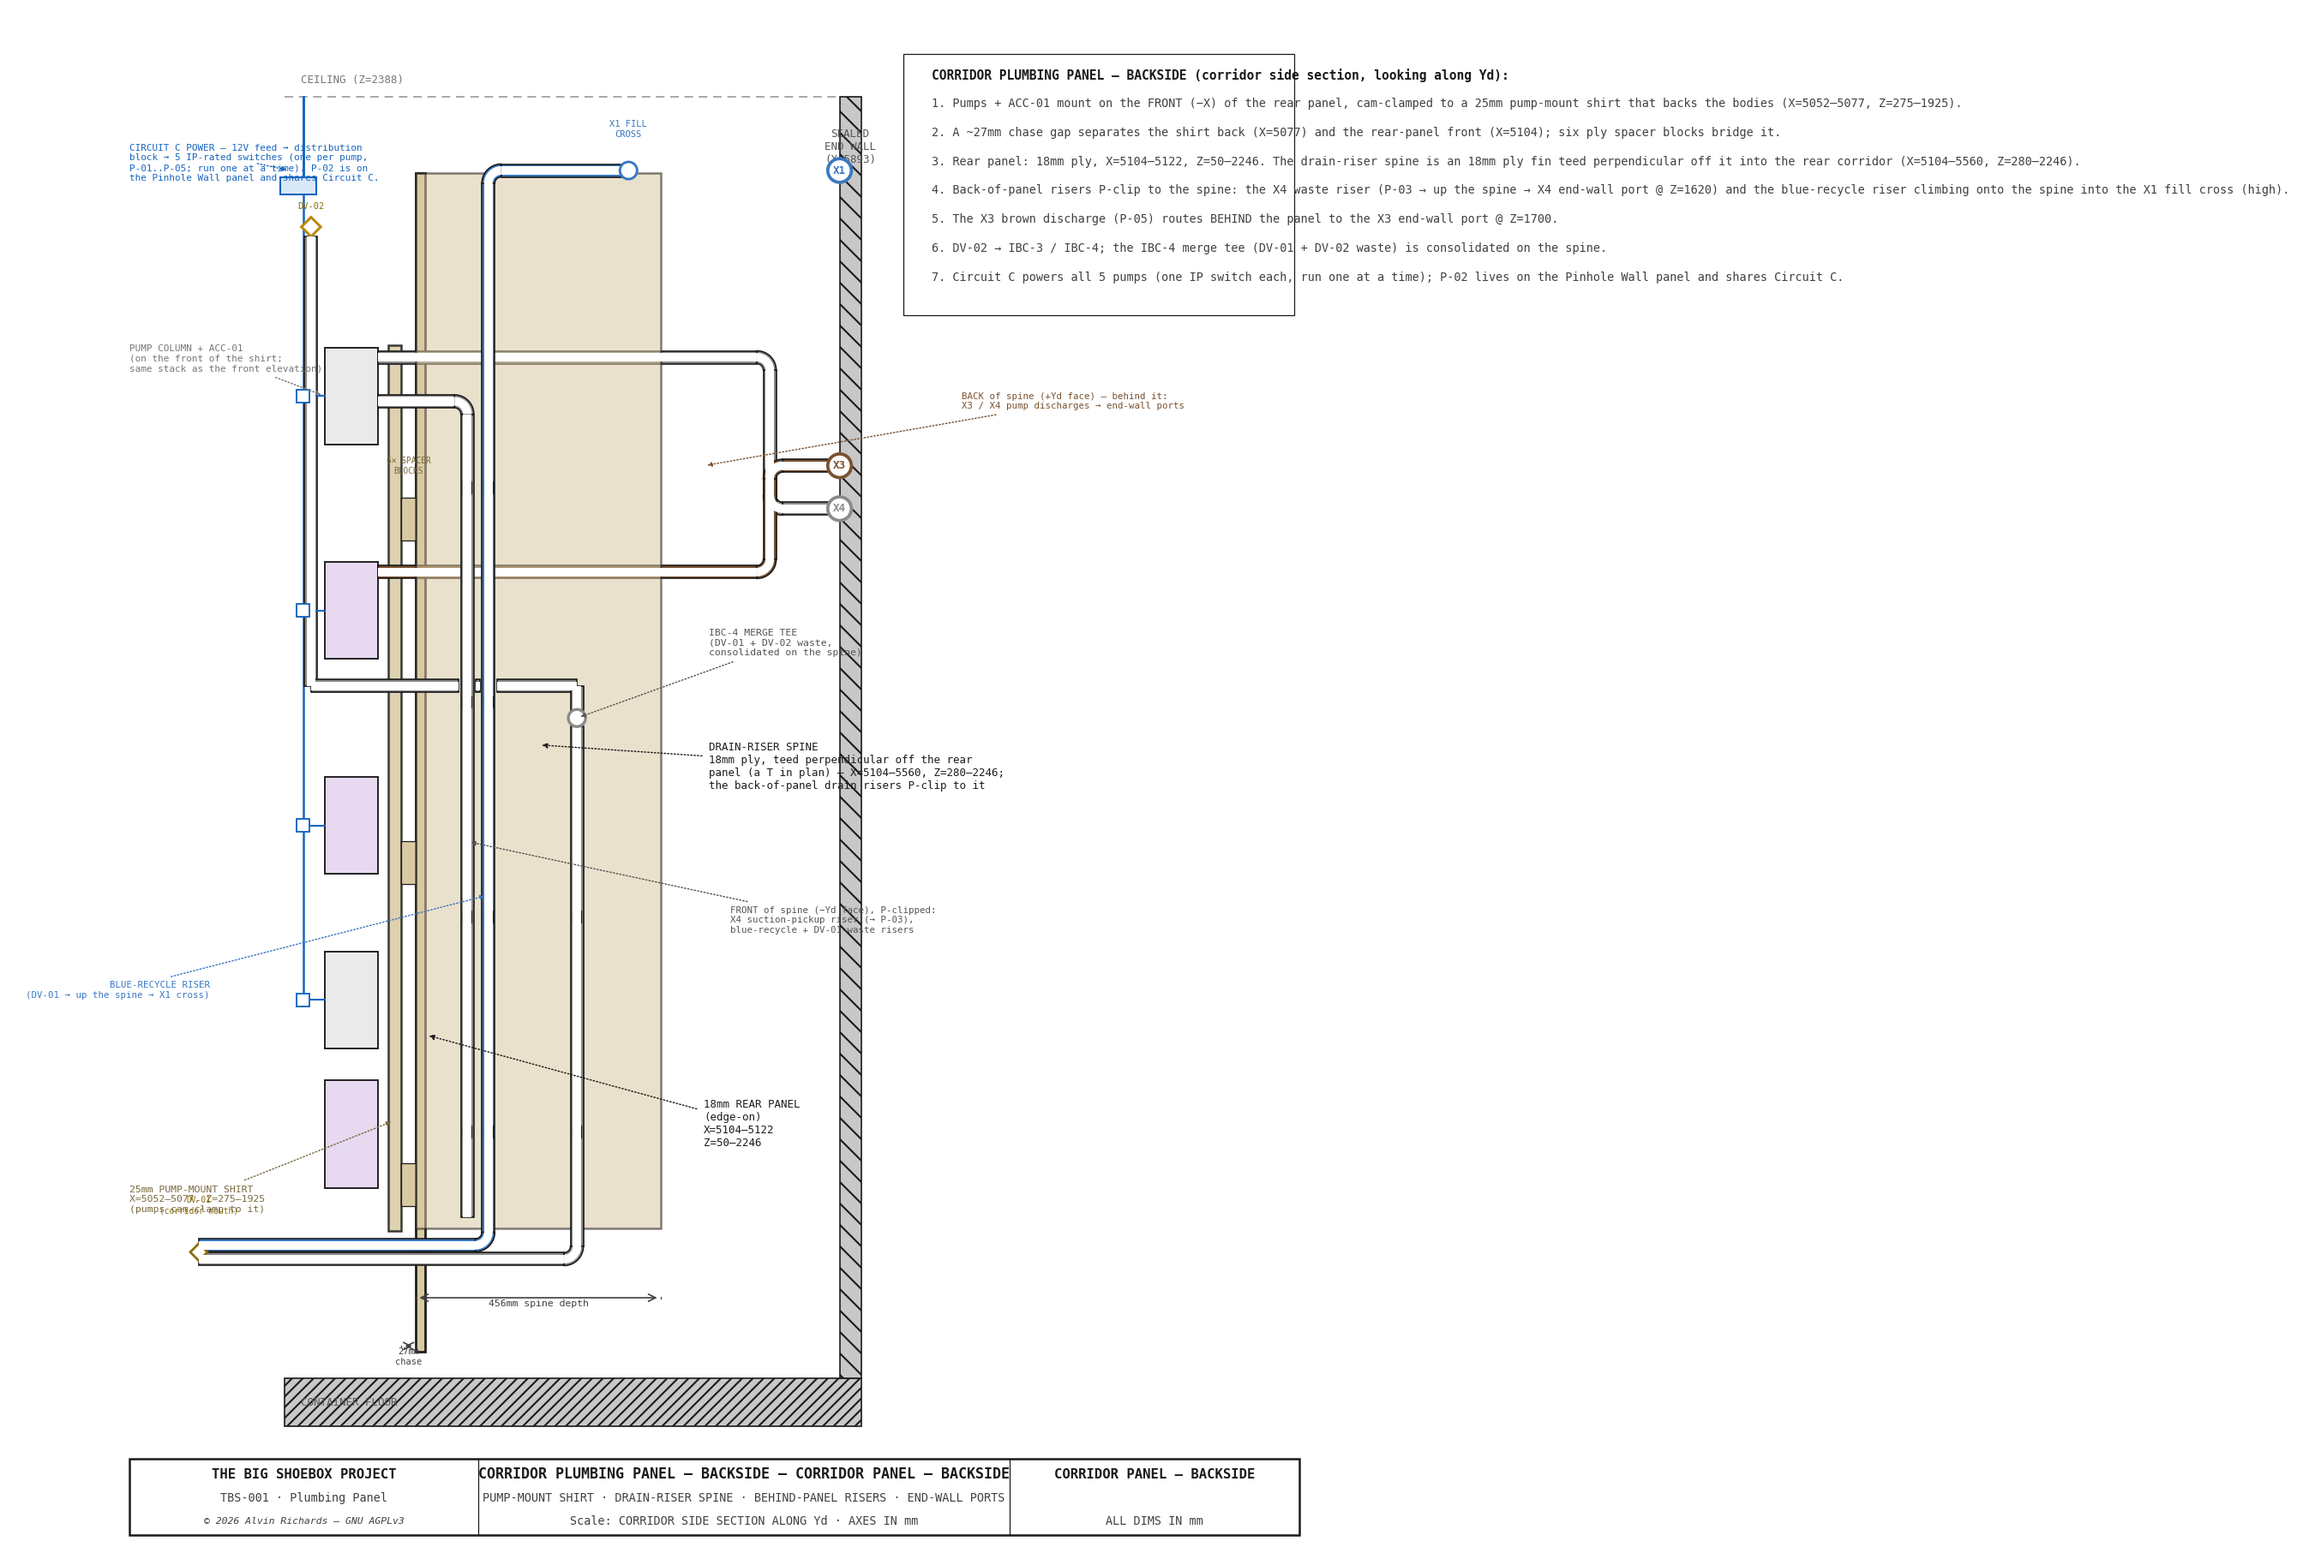
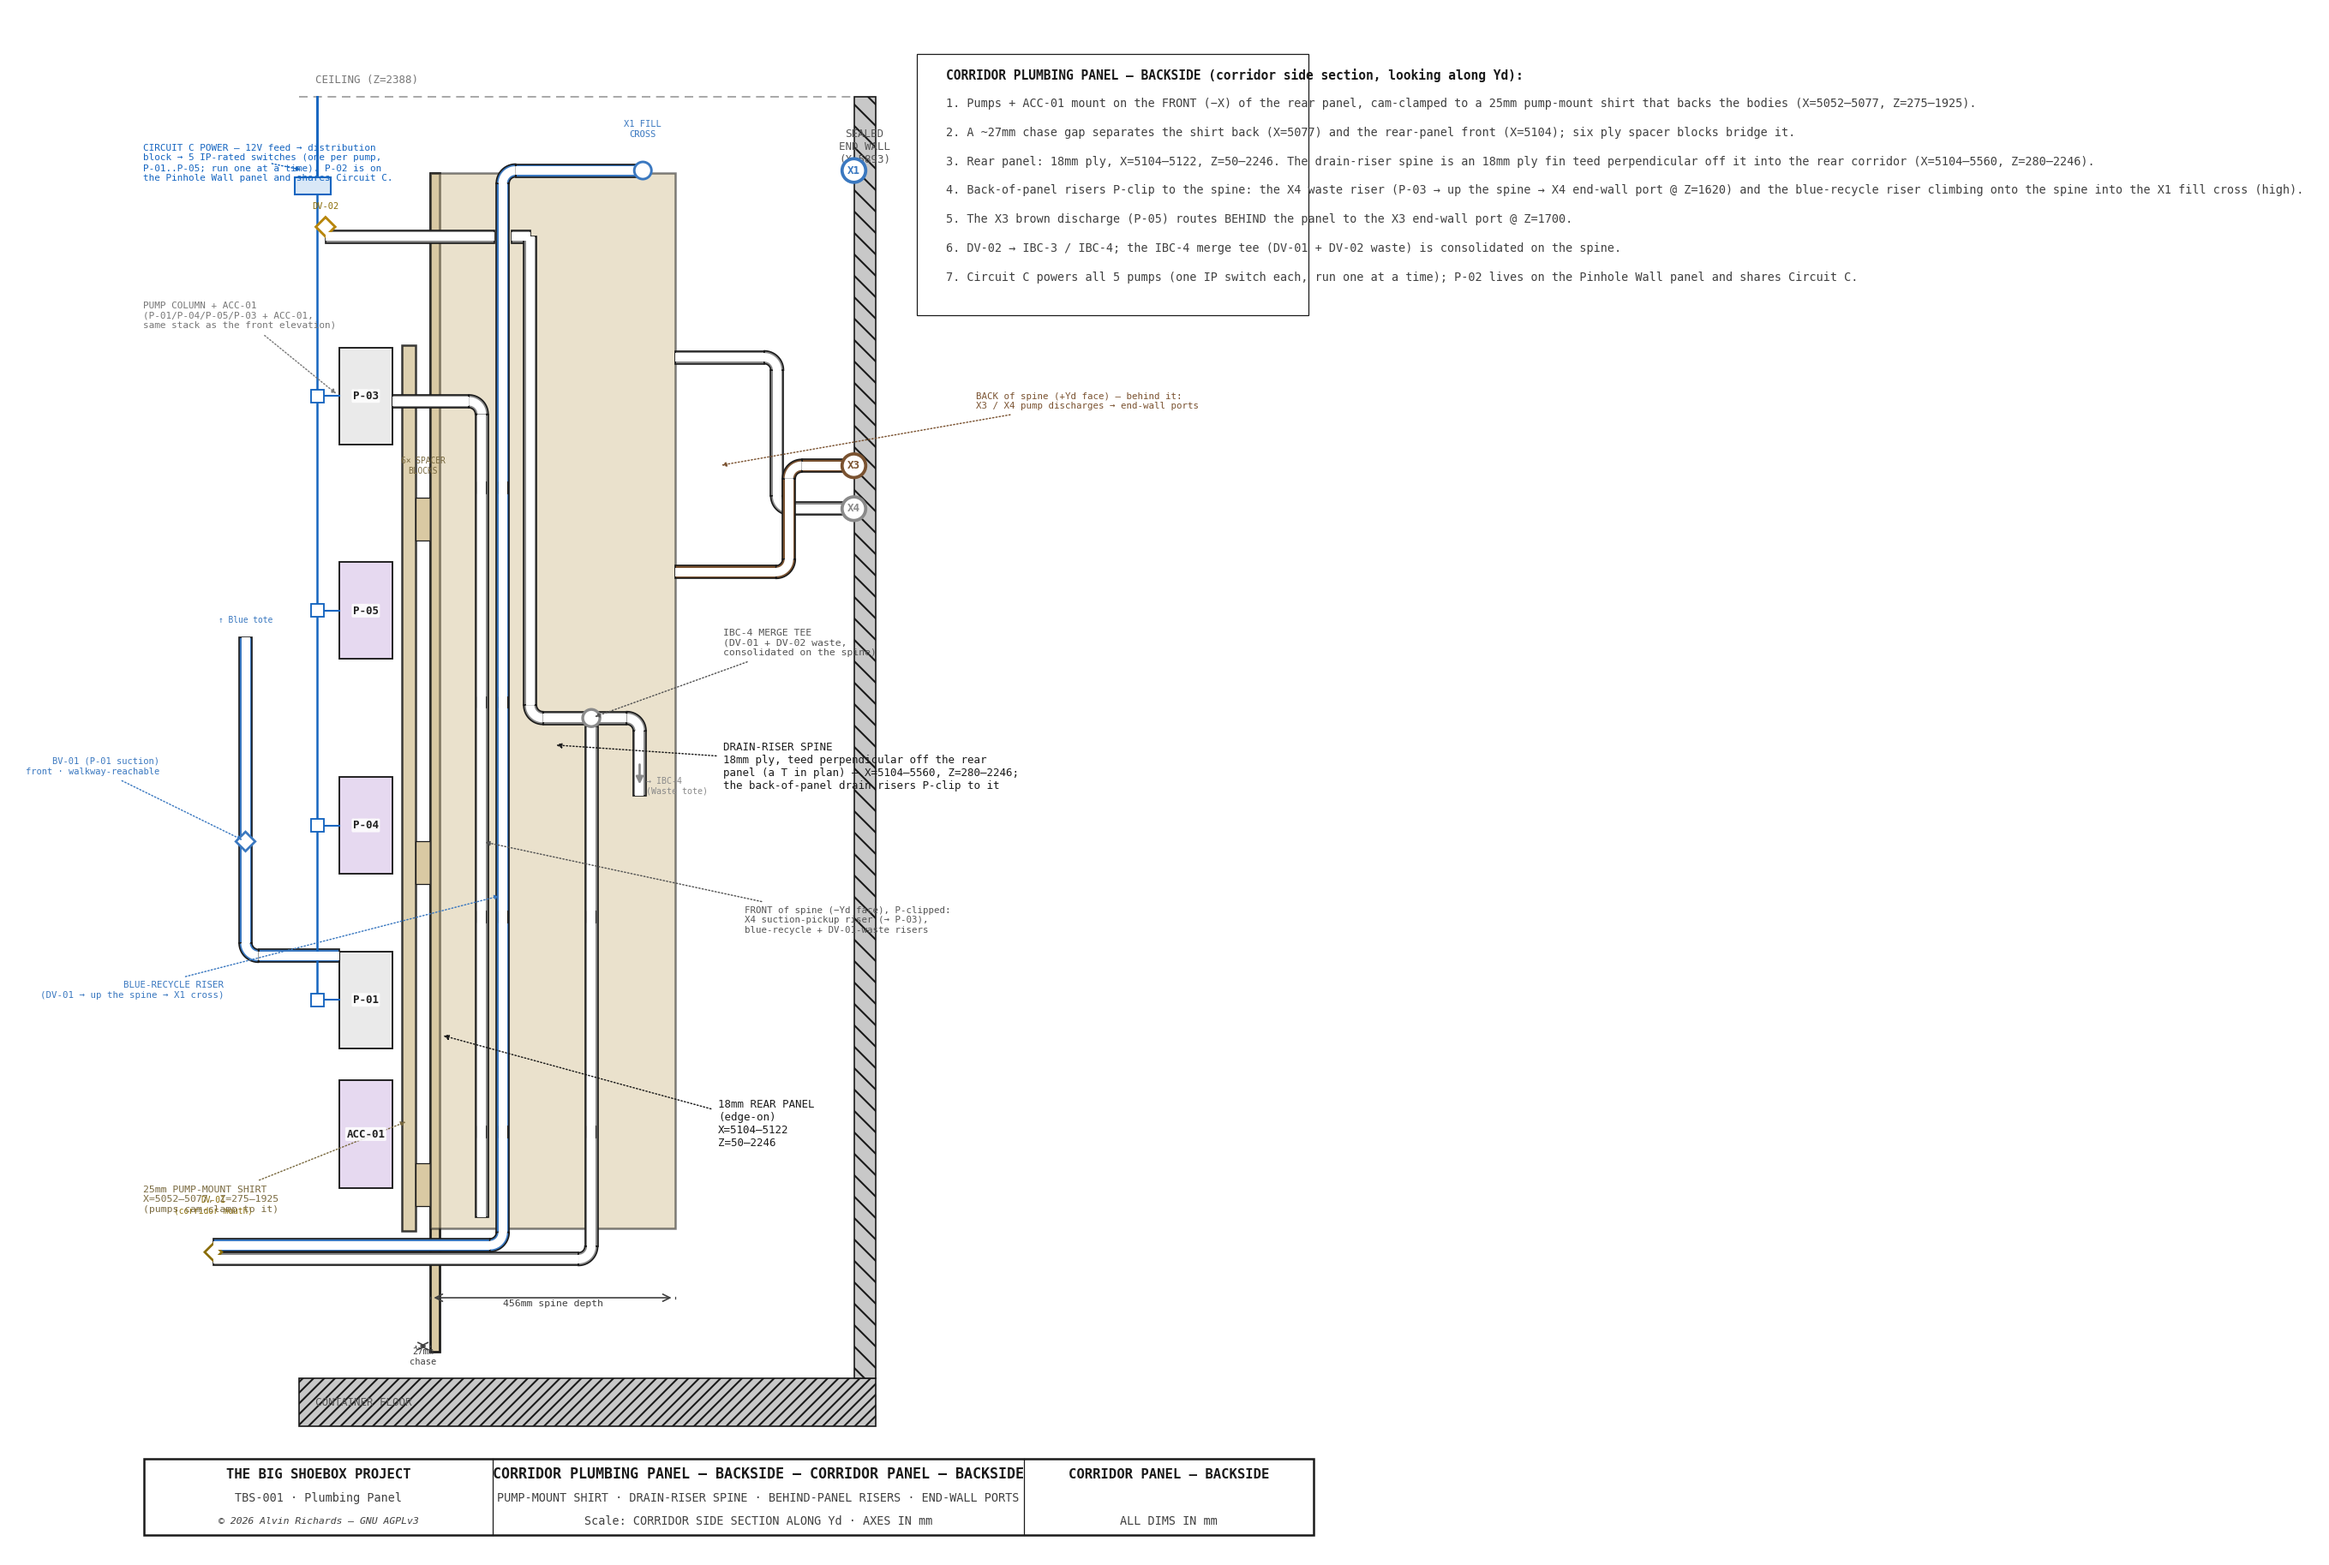
2D: review round 3 — pinhole BV-03 elbow + backside merge/labels/BV-01
pinhole-panel: the brown P-02 suction now turns a 90deg elbow below the ply
panel with a blue flow arrow pointing from the IBC-3 (Brown) source.

panel-layout-back:
- IBC-4 merge tee: added the missing RIGHT pipe (IBC-4 tote entry); DV-02 waste
  now drops at X5290 parallel to the blue-recycle riser into the LEFT side.
- X3/X4 discharges fully HIDDEN behind the spine, shown only where they emerge;
  separated at the ports with X3 (brown) drawn in front of X4.
- labeled the pumps + ACC-01 (white-backed, on top); added P-01 -> BV-01 suction.

diff --git a/src/generators/generate_panel_layout.py b/src/generators/generate_panel_layout.py
@@ -743,13 +743,16 @@ def draw_pinhole_panel():
     # floor toward the IBC-3 (Brown) tote.  Flow is UPWARD (tote → BV-03 → P-02).
     BV03_X = 2978                       # P-02 IN lane (3D X2960–2978)
     BV03_Z = 1000                       # 3D BV-03 center Z≈1000
-    SUCT_FLOOR_Z = 250
-    pw_pipe([P2_XL, BV03_X, BV03_X], [HEAD_Z, HEAD_Z, SUCT_FLOOR_Z],
-            C_BROWN, zorder=Z_BROWN)
+    SUCT_TURN_Z = 850                   # just BELOW the ply board bottom (BD_ZB=920)
+    SRC_X = BV03_X + 240                # toward the corridor / IBC-3 tote (+X draws left)
+    pw_pipe([P2_XL, BV03_X, BV03_X, SRC_X],
+            [HEAD_Z, HEAD_Z, SUCT_TURN_Z, SUCT_TURN_Z], C_BROWN, zorder=Z_BROWN)
     pw_valve(BV03_X, BV03_Z, "BV\n03", C_BROWN, half=18)
-    pw_arrow(BV03_X, SUCT_FLOOR_Z, BV03_X, SUCT_FLOOR_Z + 45, C_BROWN)
-    pw_text(BV03_X + 16, SUCT_FLOOR_Z + 4, "FROM IBC-3\n(BROWN)", ha="left",
-            va="bottom", fontsize=6, color=C_BROWN, zorder=10)
+    # 90° elbow where the brown suction drops below the ply panel; the blue flow
+    # arrow points from the source (IBC-3 Brown tote, out in the corridor) up to BV-03.
+    pw_arrow(SRC_X, SUCT_TURN_Z, SRC_X - 42, SUCT_TURN_Z, C_BLUE)
+    pw_text(SRC_X + 10, SUCT_TURN_Z, "FROM IBC-3 (BROWN)\ntote — corridor", ha="left",
+            va="center", fontsize=6, color=C_BROWN, zorder=10)
 
     # P-02 OUT → F-01 IN, then F-01 → F-02 → F-03 (straight jumpers, head line)
     pw_pipe([P2_XR, F1_XL], [HEAD_Z, HEAD_Z], C_BROWN, zorder=Z_BROWN)
@@ -960,11 +963,23 @@ for zb, h, lbl, hot in [(355, 200, "ACC-01", True), (615, 180, "P-01", False),
                         (1740, 180, "P-03", False)]:
     _rect(PUMP_FRONT_X, zb, PUMP_BACK_X - PUMP_FRONT_X, h,
           "#E6D9F0" if hot else "#EAEAEA", ec=C_OUT, lw=0.9, z0=5)
-    axb.text((PUMP_FRONT_X + PUMP_BACK_X) / 2, zb + h / 2, lbl, fontsize=5.5,
-             ha="center", va="center", color="#333", fontweight="bold", **FB)
-leader(axb, PUMP_FRONT_X, 1830, 4570, 1900,
-       "PUMP COLUMN + ACC-01\n(on the front of the shirt;\nsame stack as the front elevation)",
+    axb.text((PUMP_FRONT_X + PUMP_BACK_X) / 2, zb + h / 2, lbl, fontsize=6,
+             ha="center", va="center", color="#202020", fontweight="bold", zorder=15,
+             bbox=dict(boxstyle="round,pad=0.12", fc="white", ec="none", alpha=0.85), **FB)
+leader(axb, PUMP_FRONT_X, 1830, 4570, 1980,
+       "PUMP COLUMN + ACC-01\n(P-01/P-04/P-05/P-03 + ACC-01,\nsame stack as the front elevation)",
        color="#777", fs=5.3, ha="left", va="center", arrow_style="-|>", font=FB)
+# P-01 suction: P-01 IN → −X to BV-01 (front of the corridor, walkway-reachable,
+# Z≈1000) → up toward the Blue tote.
+BV01X = 4760
+_pipe([PUMP_FRONT_X, BV01X, BV01X], [787, 787, 1380], C_BLUEB, zorder=11)
+axb.add_patch(mpatches.Polygon(
+    [(BV01X, 1018), (BV01X + 18, 1000), (BV01X, 982), (BV01X - 18, 1000)],
+    fc="white", ec=C_BLUEB, lw=1.3, zorder=12))
+axb.text(BV01X, 1404, "↑ Blue tote", fontsize=4.6, ha="center", va="bottom",
+         color=C_BLUEB, zorder=13, **FB)
+leader(axb, BV01X, 1000, 4600, 1140, "BV-01 (P-01 suction)\nfront · walkway-reachable",
+       color=C_BLUEB, fs=5, ha="right", va="center", arrow_style="-|>", font=FB)
 
 # ── Circuit C pump power: feed → distribution block → pump switches ──────
 CWIRE = "#1565C0"
@@ -1001,11 +1016,12 @@ DV01X = 4700                       # 3W-DV-01 X (corridor mouth, low ~Z235)
 # the floor pickup to the pump; (b) the P-03 DISCHARGE runs high along the spine,
 # then drops to the X4 end-wall port (Z1620).
 _pipe([RX4, RX4, PUMP_BACK_X], [300, 1820, 1820], C_WASTEB, zorder=11)   # X4 suction pickup riser — FRONT (−Yd face)
-# X3/X4 DISCHARGES are clamped to the +Yd (BACK) face of the spine, so they run
-# BEHIND it (zorder below the spine) — the spine occludes/fades them through the
-# X5104–5560 span; they surface in the chase and past the spine to the end wall.
-_pipe([PUMP_BACK_X, 5763, 5763, WALLX], [1902, 1902, X4_PORT_Z, X4_PORT_Z], C_WASTEB, zorder=7)
-_pipe([PUMP_BACK_X, 5763, 5763, WALLX], [1502, 1502, X3_PORT_Z, X3_PORT_Z], C_BROWNB, zorder=7)
+# X3/X4 DISCHARGES are clamped to the +Yd (BACK) face of the spine and run HIDDEN
+# behind it — shown only where they EMERGE past the spine's rear edge (X=SPX1) and
+# turn to their end-wall ports.  Separate X-lanes at the ports; X3 (brown) in front.
+X4V, X3V = 5750, 5772
+_pipe([SPX1, X4V, X4V, WALLX], [1902, 1902, X4_PORT_Z, X4_PORT_Z], C_WASTEB, zorder=8)
+_pipe([SPX1, X3V, X3V, WALLX], [1502, 1502, X3_PORT_Z, X3_PORT_Z], C_BROWNB, zorder=12)
 # DV-01 — pH-gated filter-output diverter, low at the corridor mouth; two legs:
 #   BLUE RECYCLE rises up the spine → X1 fill cross; WASTE → the IBC-4 merge tee.
 axb.add_patch(mpatches.Polygon(
@@ -1032,9 +1048,17 @@ axb.add_patch(mpatches.Polygon(
     fc="white", ec="#B8860B", lw=1.4, zorder=12))
 axb.text(DV02X, 2145 + 30, "DV-02", fontsize=5, ha="center", va="bottom",
          color="#8A6D08", zorder=13, **FB)
-_pipe([DV02X, DV02X], [2145 - 18, 1290], C_WASTEB, zorder=11)             # DV-02 waste drop — FRONT
-_hpipe(1290, DV02X, MERGEX, C_WASTEB, zorder=11, crosses=SPINE_RISERS)    # FRONT; gap-broken at the front risers
-_pipe([MERGEX, MERGEX], [1290, 1244], C_WASTEB, zorder=11)                # into the merge tee
+# DV-02 waste runs high off the panel to the LEFT, then DROPS at X5290 — parallel
+# to the blue-recycle riser (5239) — and turns into the merge tee's LEFT side.
+_hpipe(2127, DV02X, 5290, C_WASTEB, zorder=11, crosses=(RX_BLUE,))        # high horizontal; crosses the blue riser
+_pipe([5290, 5290, MERGEX], [2127, 1230, 1230], C_WASTEB, zorder=11)      # drop ∥ blue riser → into merge (LEFT)
+# IBC-4 (Waste) tote entry — the merge tee's RIGHT pipe (+X off the merge, then
+# drops into the IBC-4 tote).
+_pipe([MERGEX, 5494, 5494], [1230, 1230, 1085], C_WASTEB, zorder=11)
+axb.annotate("", xy=(5494, 1100), xytext=(5494, 1150),
+             arrowprops=dict(arrowstyle="-|>", lw=1.3, mutation_scale=8, color=C_WASTEB), zorder=12)
+axb.text(5506, 1120, "→ IBC-4\n(Waste tote)", fontsize=4.8, ha="left", va="top",
+         color=C_WASTEB, zorder=13, **FB)
 # P-clips fastening the spine risers (suction pickup, blue recycle, DV-01 waste).
 for rx, zt in [(RX4, 1800), (RX_BLUE, X1_PORT_Z), (MERGEX, 1214)]:
     for i in range(4):
